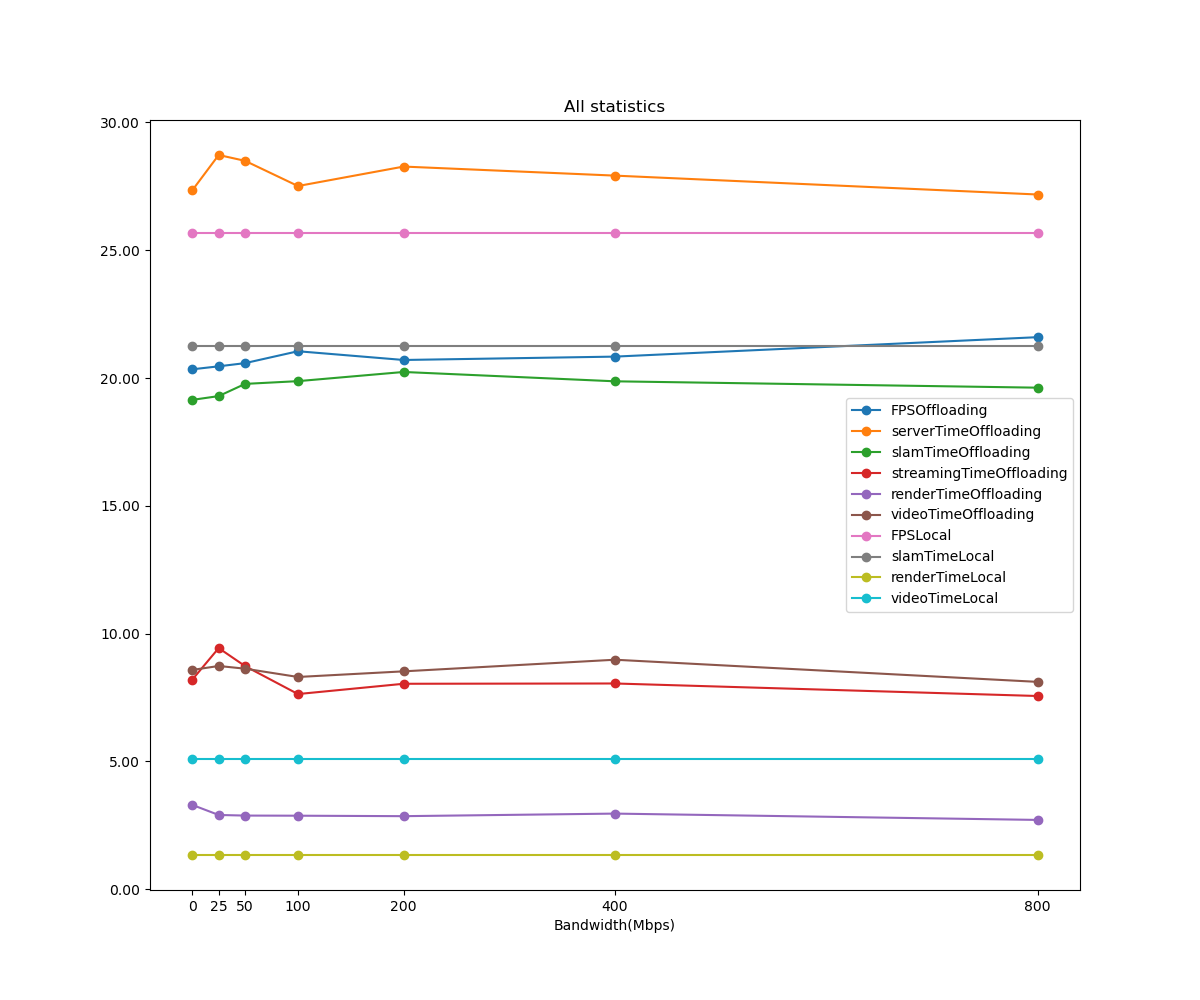
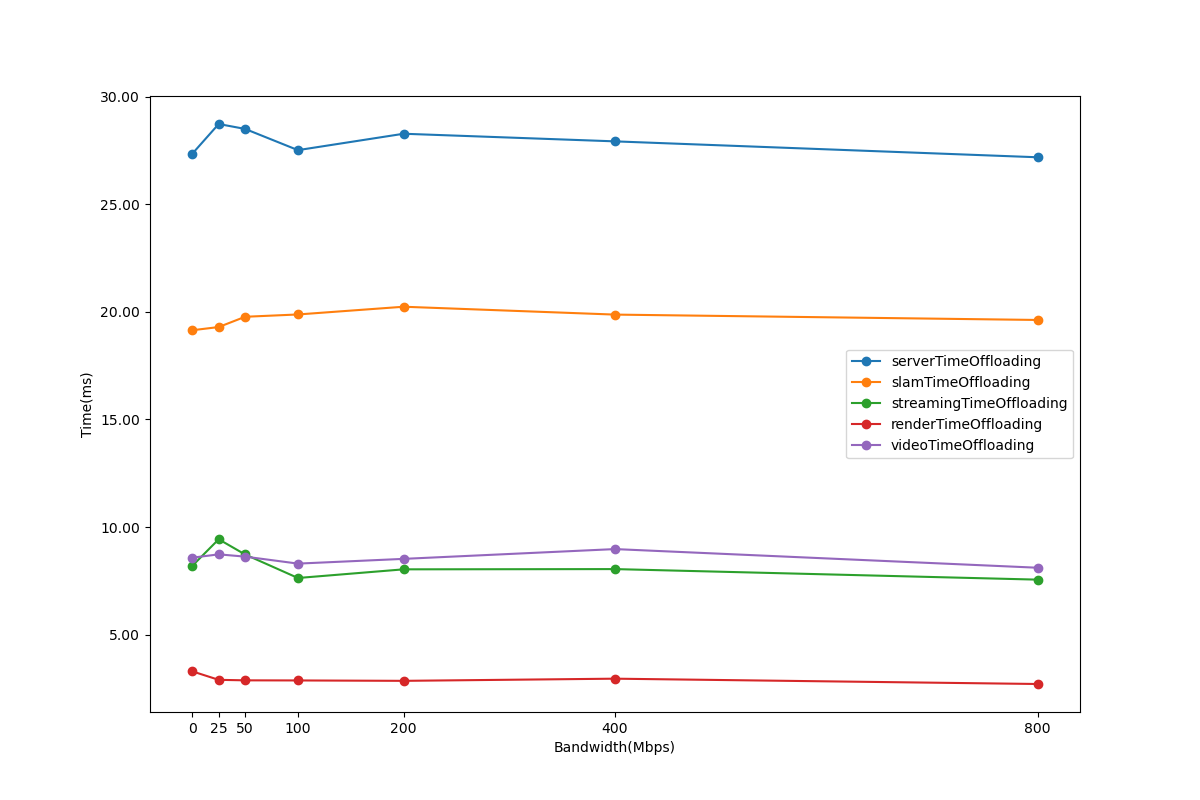
graficos

diff --git a/offloading/graphs_generator.py b/offloading/graphs_generator.py
@@ -1,0 +1,173 @@
+import os
+import pandas as pd
+import matplotlib.pyplot as plt
+import matplotlib.ticker as ticker
+
+def gen_local_statistics(local_statistic_path, labels):
+
+    arr = []
+    
+    for filename in os.listdir(local_statistic_path):
+        df = pd.DataFrame(columns= labels)
+      
+        if filename.endswith('.csv'):
+            file_path = os.path.join(local_statistic_path, filename)
+            df = pd.read_csv(file_path)    
+        
+        arr.append(df[labels])        
+    try:
+        statistics = pd.concat(arr, ignore_index=True).mean().to_frame().transpose()
+    except:
+        statistics = pd.DataFrame(columns=labels)
+    
+    return statistics
+    
+    
+def gen_formated_data(offloading_statistics_path, labels): 
+    mean = {}
+
+    for case in os.listdir(offloading_statistics_path):
+        case_path = os.path.join(offloading_statistics_path, case)
+        arr = []
+        
+        for filename in os.listdir(case_path):
+            df = pd.DataFrame(columns= labels)
+            
+            if filename.endswith('.csv'):
+                file_path = os.path.join(case_path, filename)
+                df = pd.read_csv(file_path)    
+                
+            arr.append(df[labels])
+
+        try:
+            data = pd.concat(arr, ignore_index=True).mean().to_frame().transpose()
+            
+        except:
+            data = pd.DataFrame(columns= labels)
+
+        mean[float(case)] = data
+    
+        
+    mean = dict(sorted(mean.items()))  
+    
+    return mean
+    
+    
+def gen_all_data_graph(statistic, raw_data, local_statistics, legend):
+    data = {}
+    
+    for key in raw_data.keys():    
+        data[key] = raw_data[key].copy(deep= True)
+        data[key] = pd.concat([data[key], local_statistics], axis=1)
+        data[key].drop(columns = local_statistics.columns, inplace= True)
+        data[key].drop(columns = 'FPSOffloading', inplace= True)
+
+        
+    fig, ax = plt.subplots(figsize=(12, 8))    
+
+    for label in legend:
+        x = list(data.keys())
+        y = [data[key][label] for key in x]
+        plt.xticks(x)
+        ax.plot(x, y, marker='o', label=label)
+  
+    ax.yaxis.set_major_formatter(ticker.FormatStrFormatter('%.2f'))
+    
+    ax.legend() 
+
+    plt.ylabel("Time(ms)")
+
+
+    if statistic == 'bandwidth':
+        plt.xlabel("Bandwidth(Mbps)")
+    if statistic == 'delay':
+        plt.xlabel("Delay(ms)")
+    if statistic == 'packetloss':
+        plt.xlabel("Packetloss(%)")
+    
+    plt.savefig(f'./graphs/{statistic}.png')
+
+
+def gen_pair_graphs(pair, raw_data, local_statistics, statistic):
+    data = {}
+
+    for key in raw_data.keys():    
+        data[key] = raw_data[key].copy(deep= True)
+        data[key] = pd.concat([data[key], local_statistics], axis=1)
+        data[key] = data[key][pair]
+        data[key] = data[key].T.drop_duplicates().T    
+    
+    fig, ax = plt.subplots(figsize=(12, 6))  
+  
+    for label in pair:
+        x = list(data.keys())
+        y = [data[key][label] for key in x]
+        plt.xticks(x)
+
+        ax.plot(x, y, marker='o', label=label)       
+        
+    ax.yaxis.set_major_formatter(ticker.FormatStrFormatter('%.2f'))
+    
+    ax.legend() 
+     
+    if pair[0] == 'FPSOffloading':
+        plt.ylabel('FPS')
+    else:
+        plt.ylabel('Time(ms)')
+    
+    if statistic == 'bandwidth':
+        plt.xlabel("Bandwidth(Mbps)")
+    if statistic == 'delay':
+        plt.xlabel("Delay(ms)")
+    if statistic == 'packetloss':
+        plt.xlabel("Packetloss(%)")
+    
+    if pair[0] == 'FPSOffloading':
+        plt.savefig(f'./graphs/{statistic}_FPS.png')
+    elif pair[0] == 'serverTimeOffloading':
+        plt.savefig(f'./graphs/{statistic}_slam_time.png')
+    elif pair[0] == 'renderTimeOffloading':
+        plt.savefig(f'./graphs/{statistic}_render_time.png')
+    elif pair[0] == 'videoTimeOffloading':
+        plt.savefig(f'./graphs/{statistic}_video_time.png')
+        
+
+def main():
+    local_statistic_path = './dataLocal'
+    local_labels = ['FPSLocal','slamTimeLocal', 'renderTimeLocal', 'videoTimeLocal']
+    
+    offloading_path = './dataOffloading'
+    offloading_labels = ['FPSOffloading','serverTimeOffloading', 'slamTimeOffloading', 'streamingTimeOffloading', 'renderTimeOffloading', 'videoTimeOffloading']
+    
+    pairMatrix = [
+            ['FPSOffloading', 'FPSLocal'],
+            ['serverTimeOffloading', 'slamTimeLocal'],
+            ['renderTimeOffloading', 'renderTimeLocal'],
+            ['videoTimeOffloading', 'videoTimeLocal']
+            ]
+    
+    local_statistics = gen_local_statistics(local_statistic_path, local_labels)
+
+    #fullLegend = offloading_labels + local_statistics.columns.tolist()
+    
+    #fullLegend.remove('FPSOffloading')
+    #fullLegend.remove('FPSLocal')
+    
+    for statistic in os.listdir(offloading_path):
+        statistic_path = os.path.join(offloading_path, statistic)
+        
+        data = gen_formated_data(statistic_path, offloading_labels)
+        gen_all_data_graph(statistic, data, local_statistics, ['serverTimeOffloading', 'slamTimeOffloading', 'streamingTimeOffloading', 'renderTimeOffloading', 'videoTimeOffloading'])
+        
+                  
+                      
+        for pair in pairMatrix:
+            gen_pair_graphs(pair, data, local_statistics, statistic)        
+        
+
+        
+
+  
+    
+if __name__ == "__main__":
+    main()
